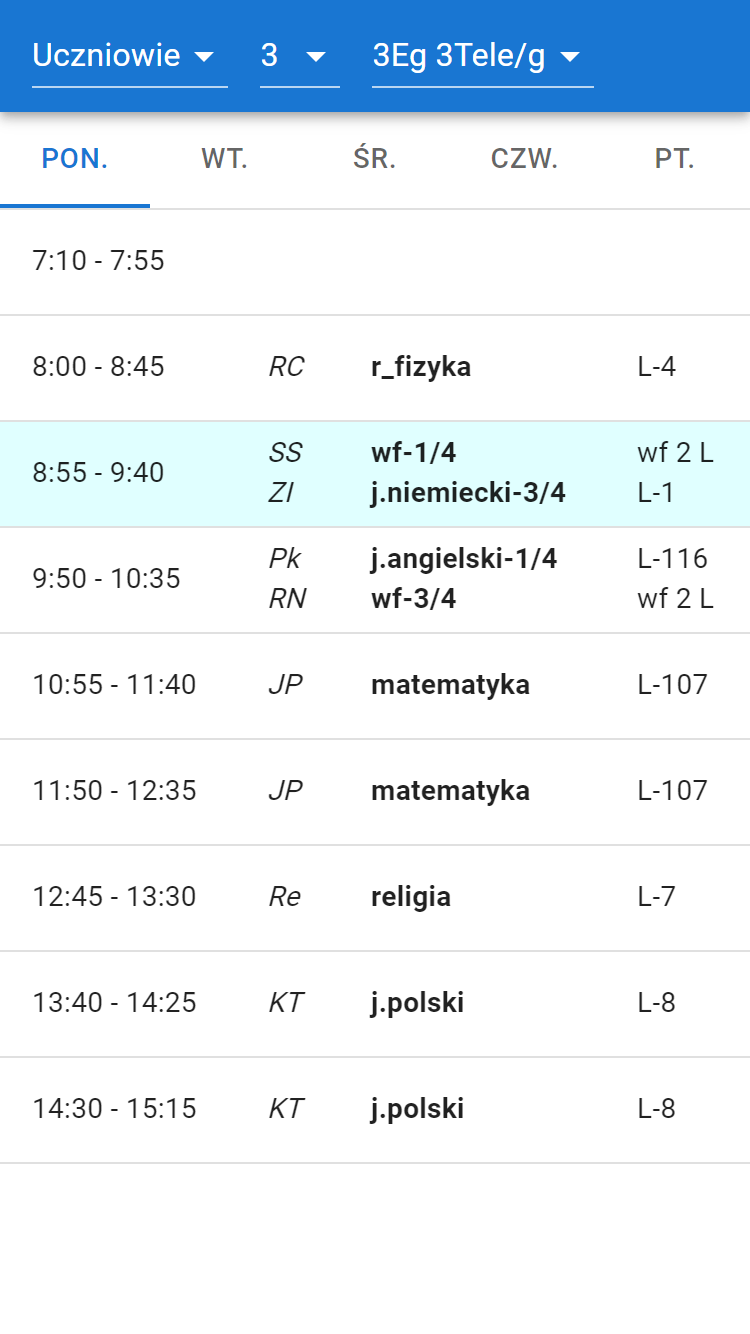
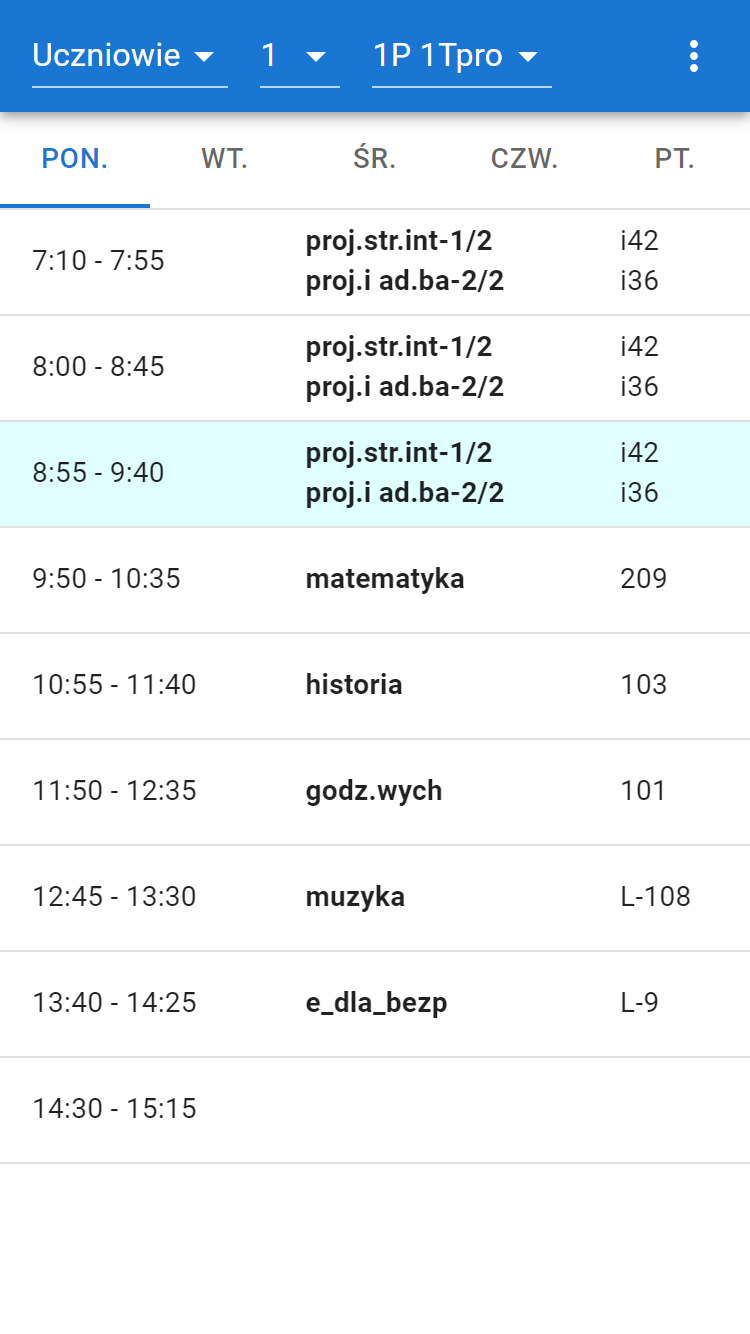
Change screenshots

diff --git a/README.md b/README.md
@@ -9,7 +9,7 @@ The frontend of the application is a Single Page Application built with React an
 - Click on any teacher room or class to redirect to its plan
 - Dynamic URL routing
 - Single Page Application
-- User can hide unnecessary columns (coming soon)
+- User can hide unnecessary columns
 - Highlight current lesson
 - Title of the website changes when you change the plan
 - Available from a single IP address
@@ -24,7 +24,8 @@ The frontend of the application is a Single Page Application built with React an
 
 <p float="left">
   <img alt="Screenshot of the main inteface" src="/screenshots/screenshot1.png" width="33%" >
-  <img alt="Screenshot of the main inteface with a select list expanded" src="/screenshots/screenshot2.png" width="33%" >
+  <img alt="Screenshot of the main inteface from a different category" src="/screenshots/screenshot2.png" width="33%" >
+  <img alt="Screenshot of the hiding columns menu" src="/screenshots/screenshot3.png" width="33%" >
 </p>
 
 ## Running the Project Locally
